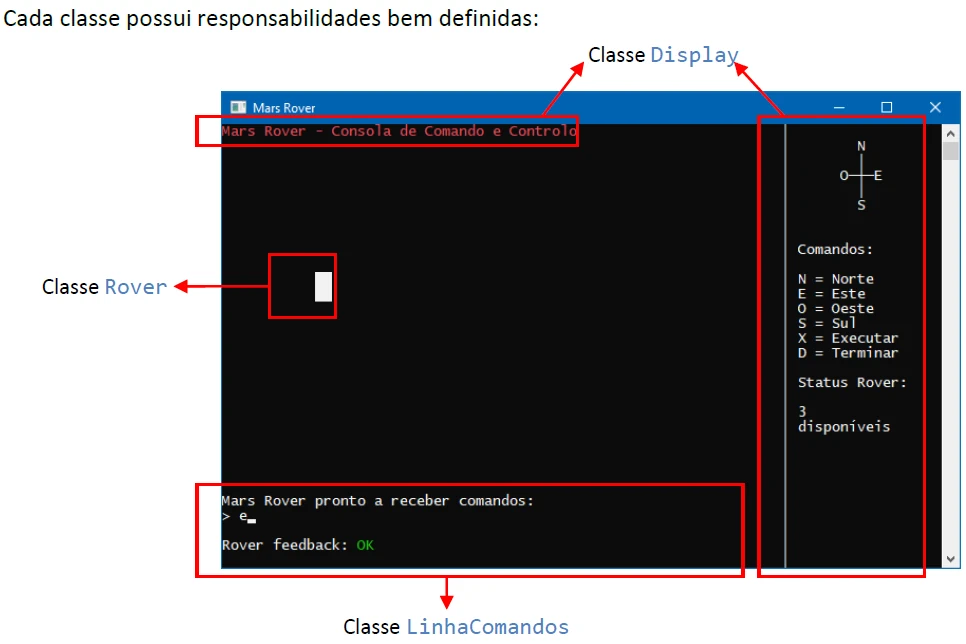
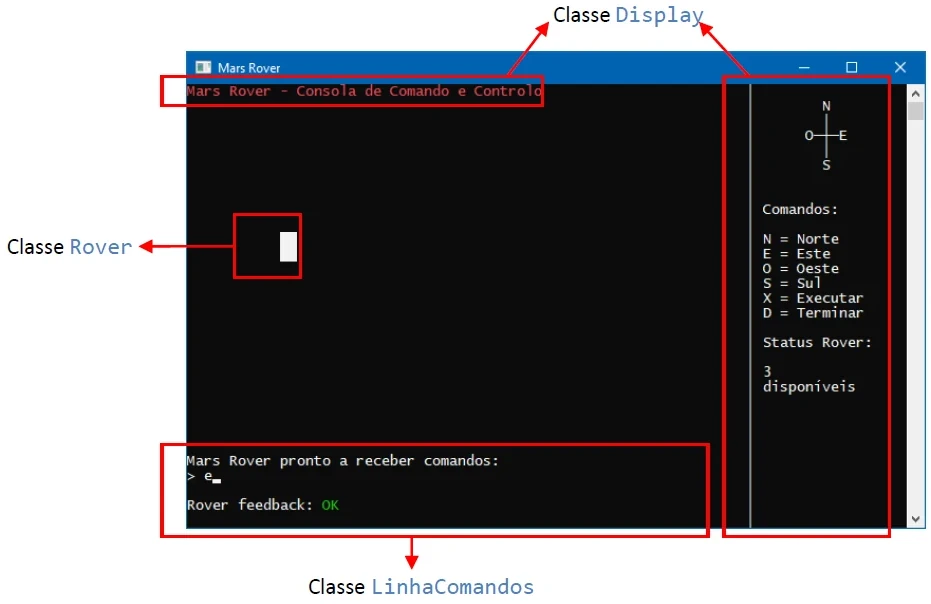
Editar imagem e adicionar no documento

Changed region(s): [[0.0, 0.0, 0.9968, 0.9834]]

diff --git a/README.md b/README.md
@@ -62,3 +62,7 @@ Esta classe é responsável pelo display de dados, nomeadamente:
 ```LinhaComandos.cs```
 
 Contém a classe estática ```LinhaComandos```, responsável por mostrar a linha de comandos e por mostrar o feedback do rover.
+
+Cada classe possui responsabilidades bem definidas:
+
+<img src="img/screenshot2.webp" alt="Imagem esquemática do programa em funcionamento e as classes">
